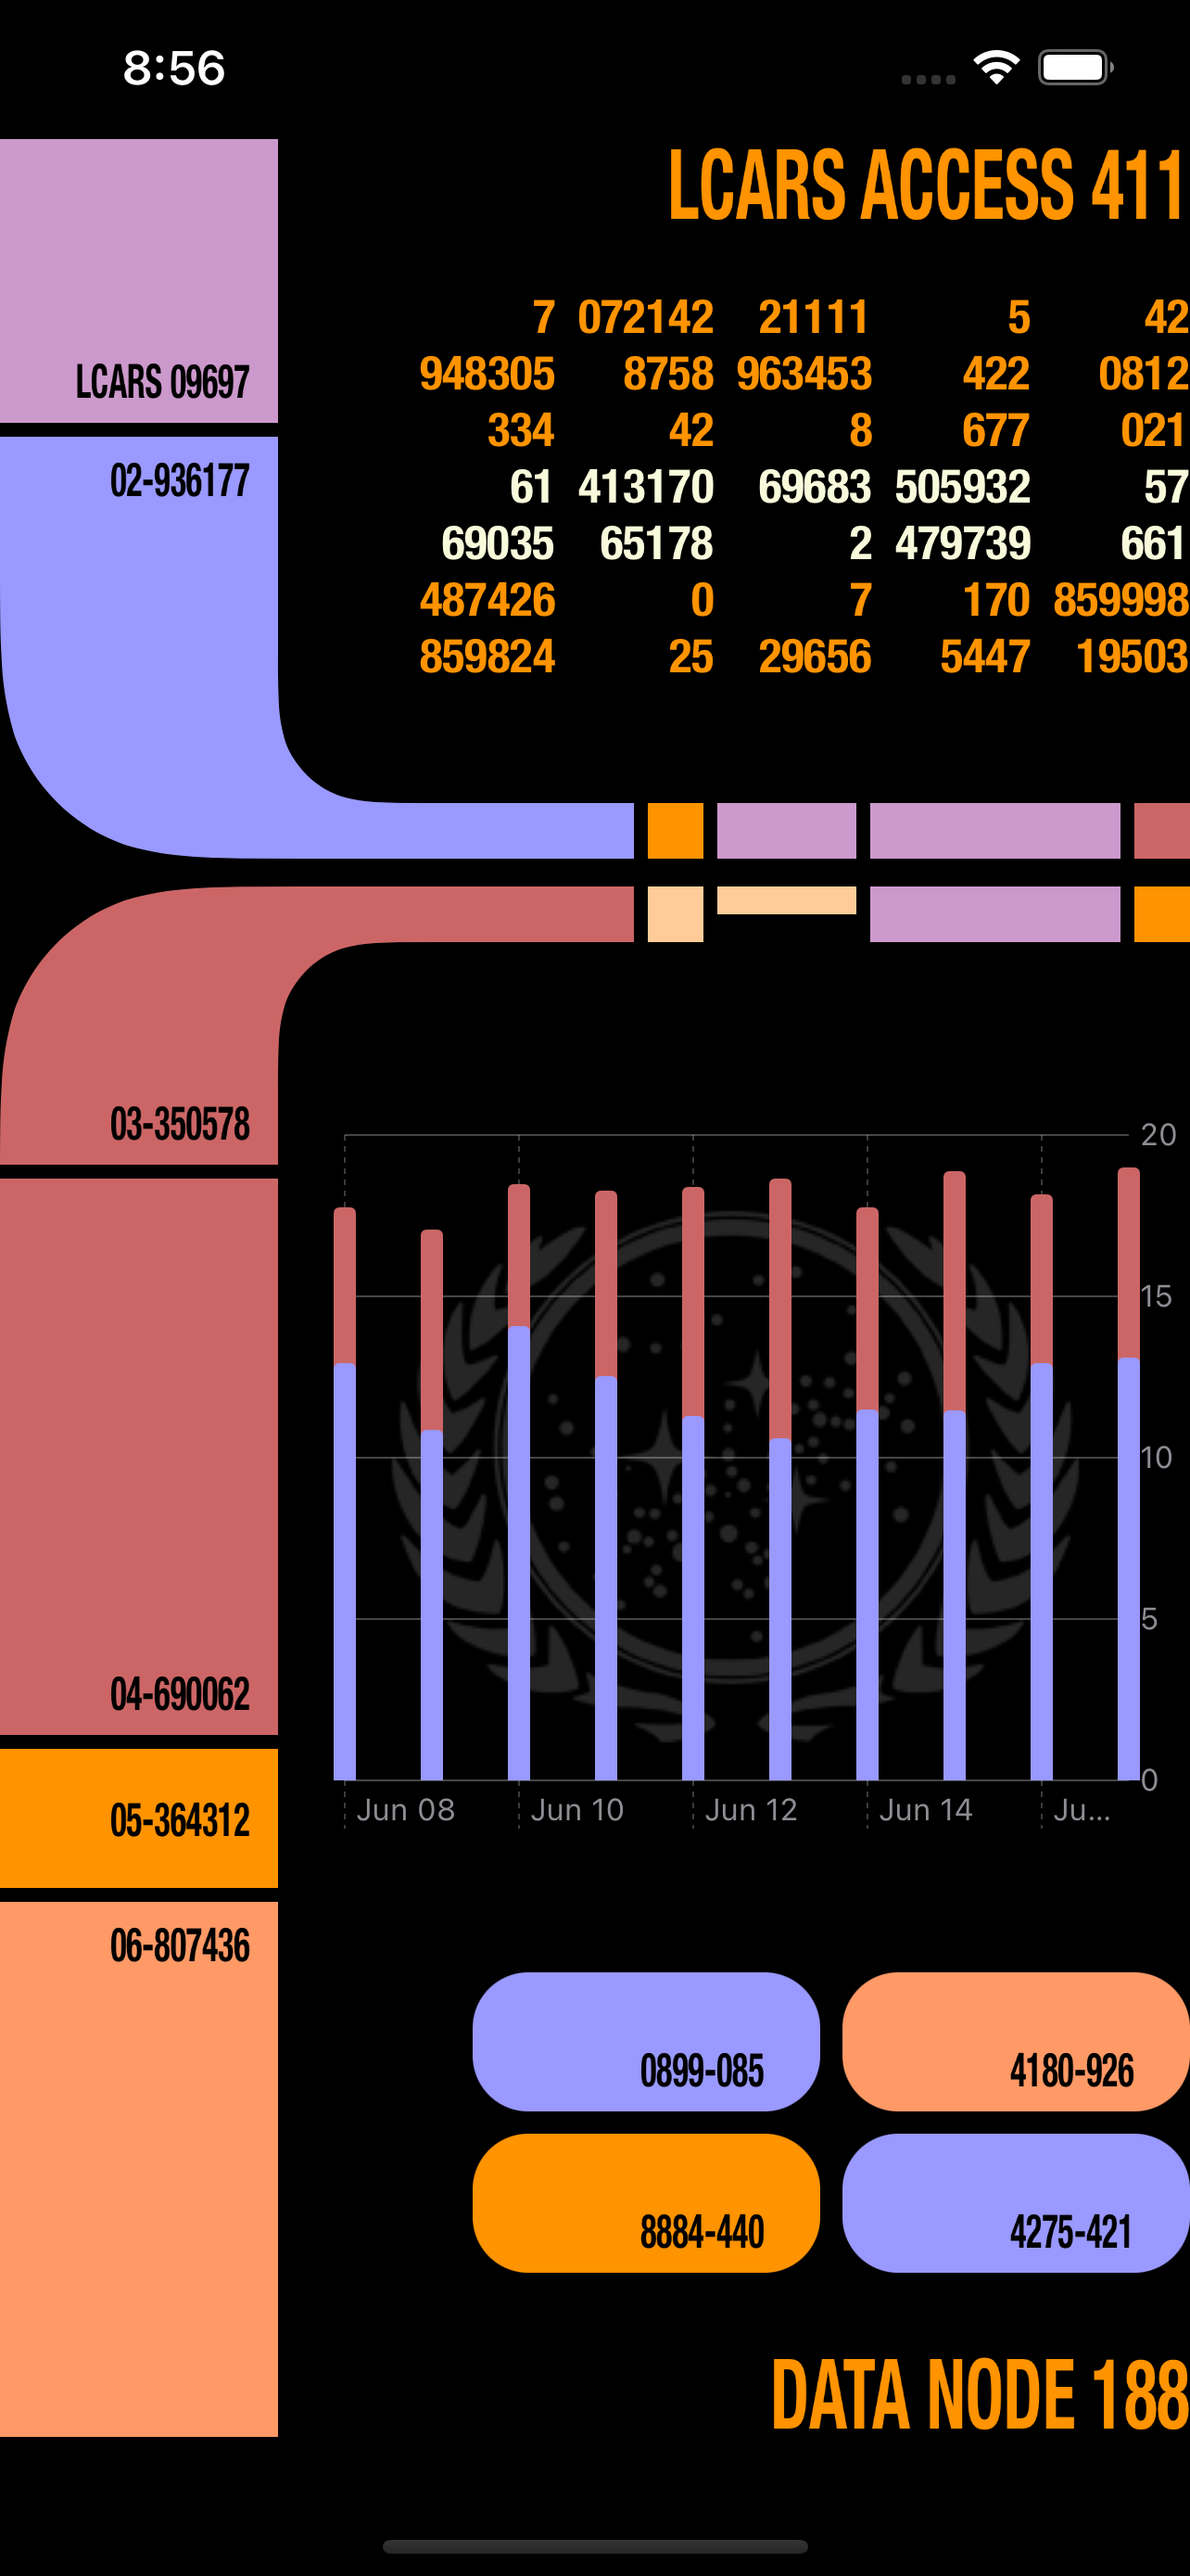
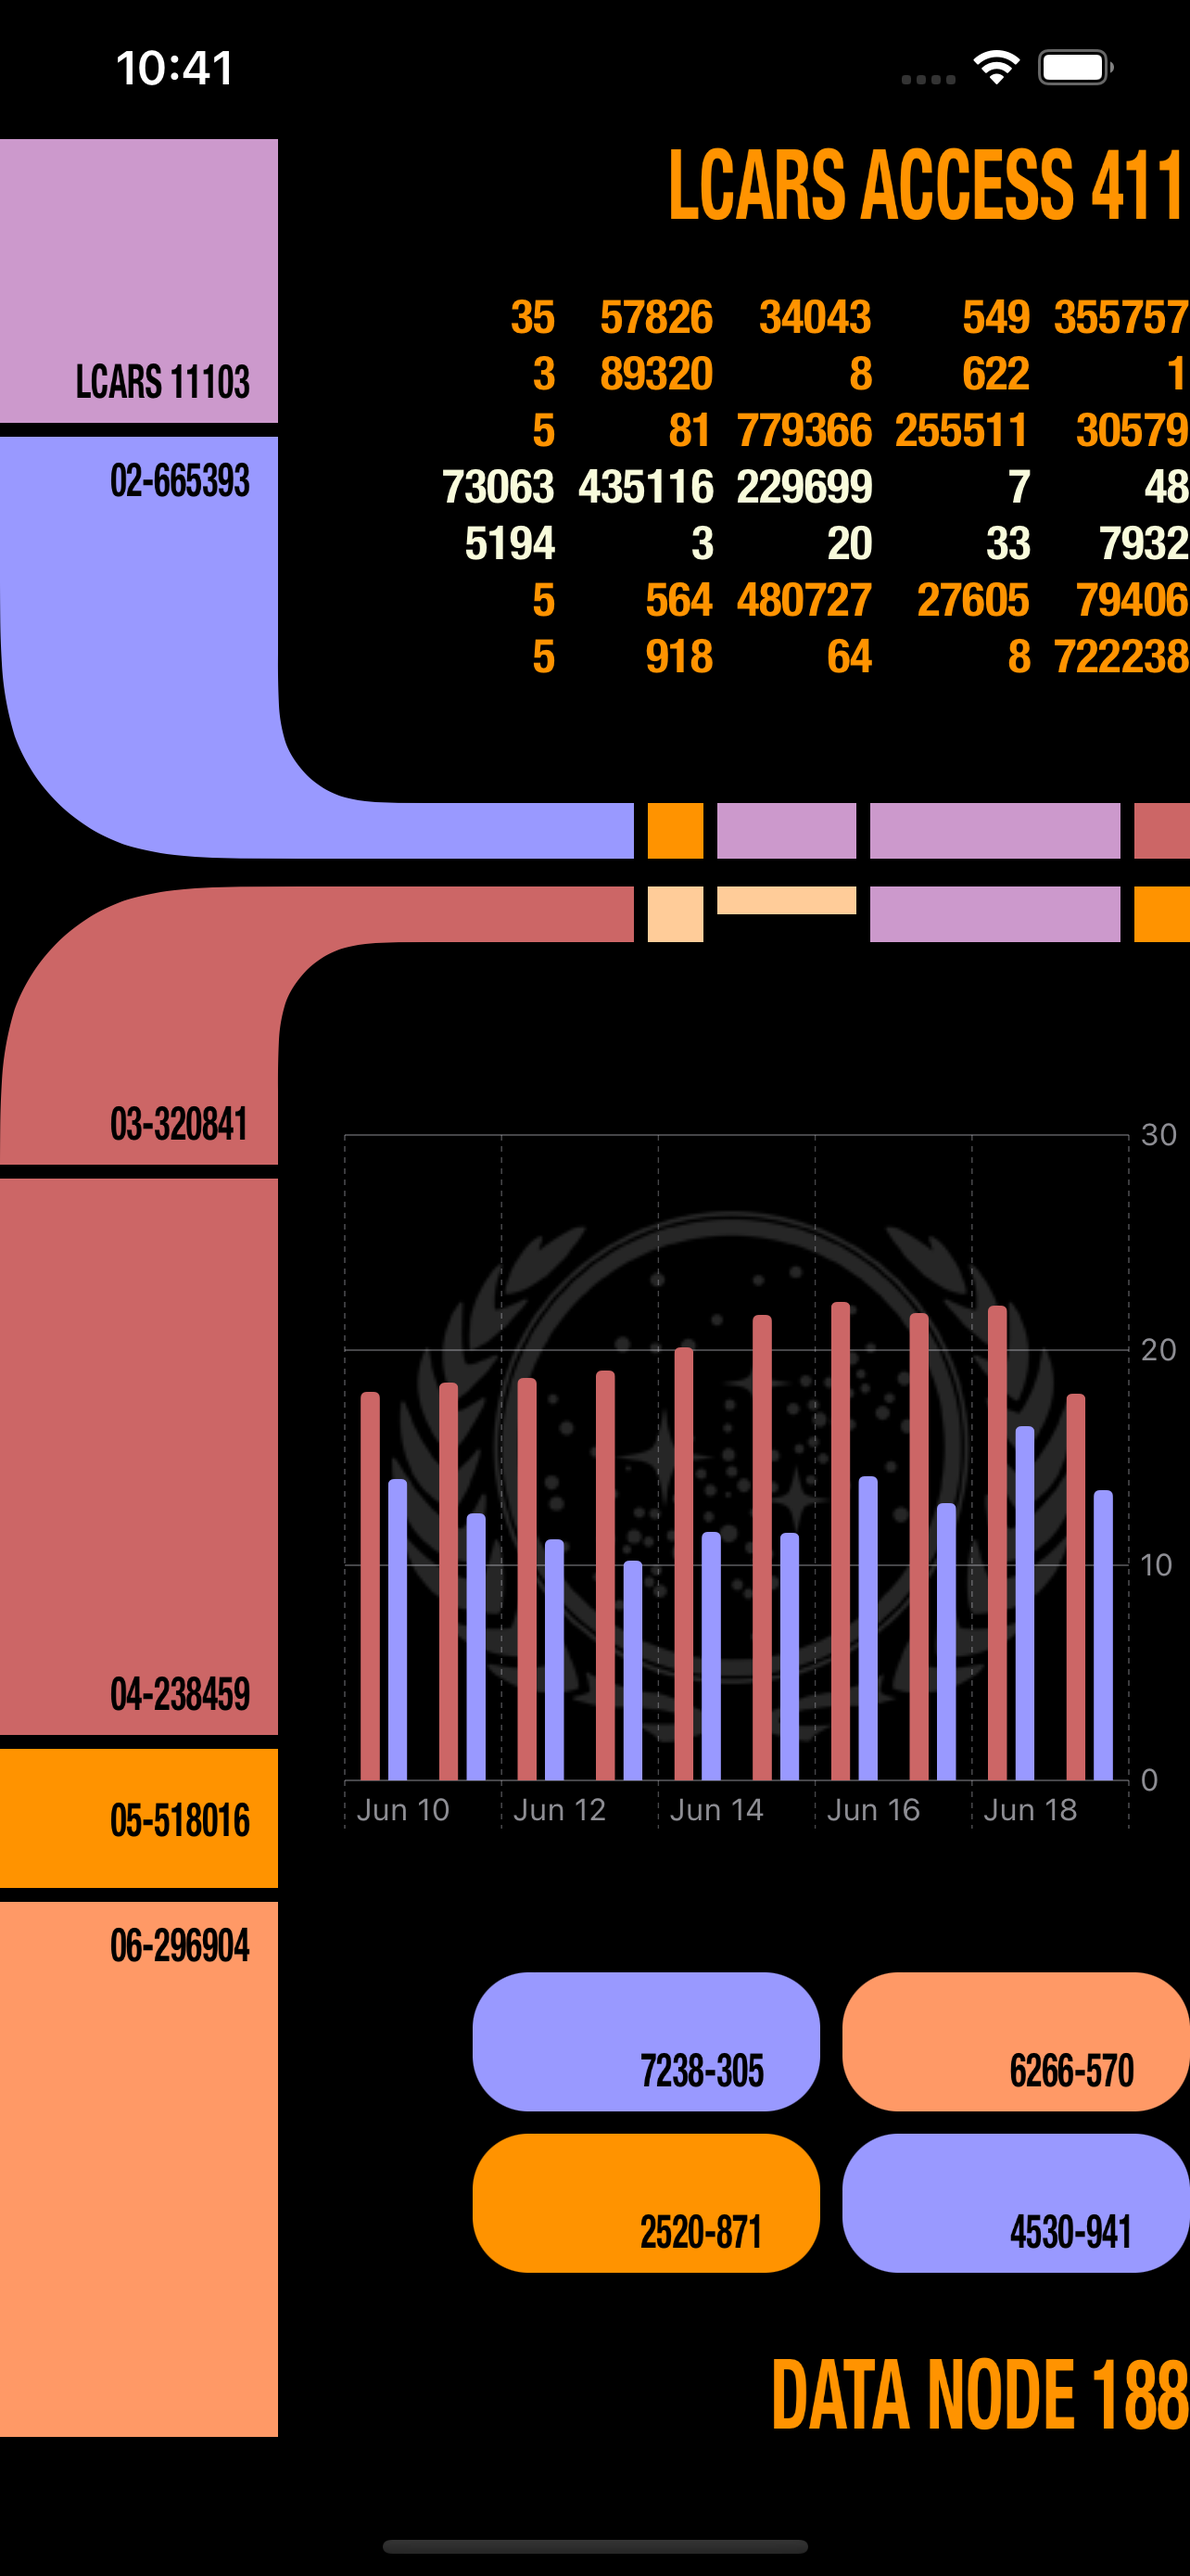
Update bar chart to have a side by side appearance as originally intended

diff --git a/scifi/scifi/ContentView.swift b/scifi/scifi/ContentView.swift
@@ -245,19 +245,23 @@ struct ContentView: View {
             } else if chartView == .bar {
                 ForEach(weatherData.dailyForecasts) {
                     BarMark(
-                        x: .value("Date", $0.date),
+                        x: .value("Date", $0.date, unit: .day),
                         y: .value("Temperature", $0.max)
                     )
                     .foregroundStyle(Color.lcarPlum)
                 }
+                .foregroundStyle(by: .value("Type", "High"))
+                .position(by: .value("Type", "High"))
                 ForEach(weatherData.dailyForecasts) {
                     BarMark(
-                        x: .value("Date", $0.date),
+                        x: .value("Date", $0.date, unit: .day),
                         y: .value("Temperature", $0.min),
                         stacking: .unstacked
                     )
                     .foregroundStyle(Color.lcarViolet)
                 }
+                .foregroundStyle(by: .value("Type", "Low"))
+                .position(by: .value("Type", "Low"))
             } else {
                 ForEach(weatherData.dailyForecasts) {
                     RuleMark(
@@ -269,6 +273,7 @@ struct ContentView: View {
                 }
             }
         }
+        .chartLegend(.hidden)
         .frame(width: 300, height: 250)
         .preferredColorScheme(.dark)
         .offset(x: 60, y: 70)
